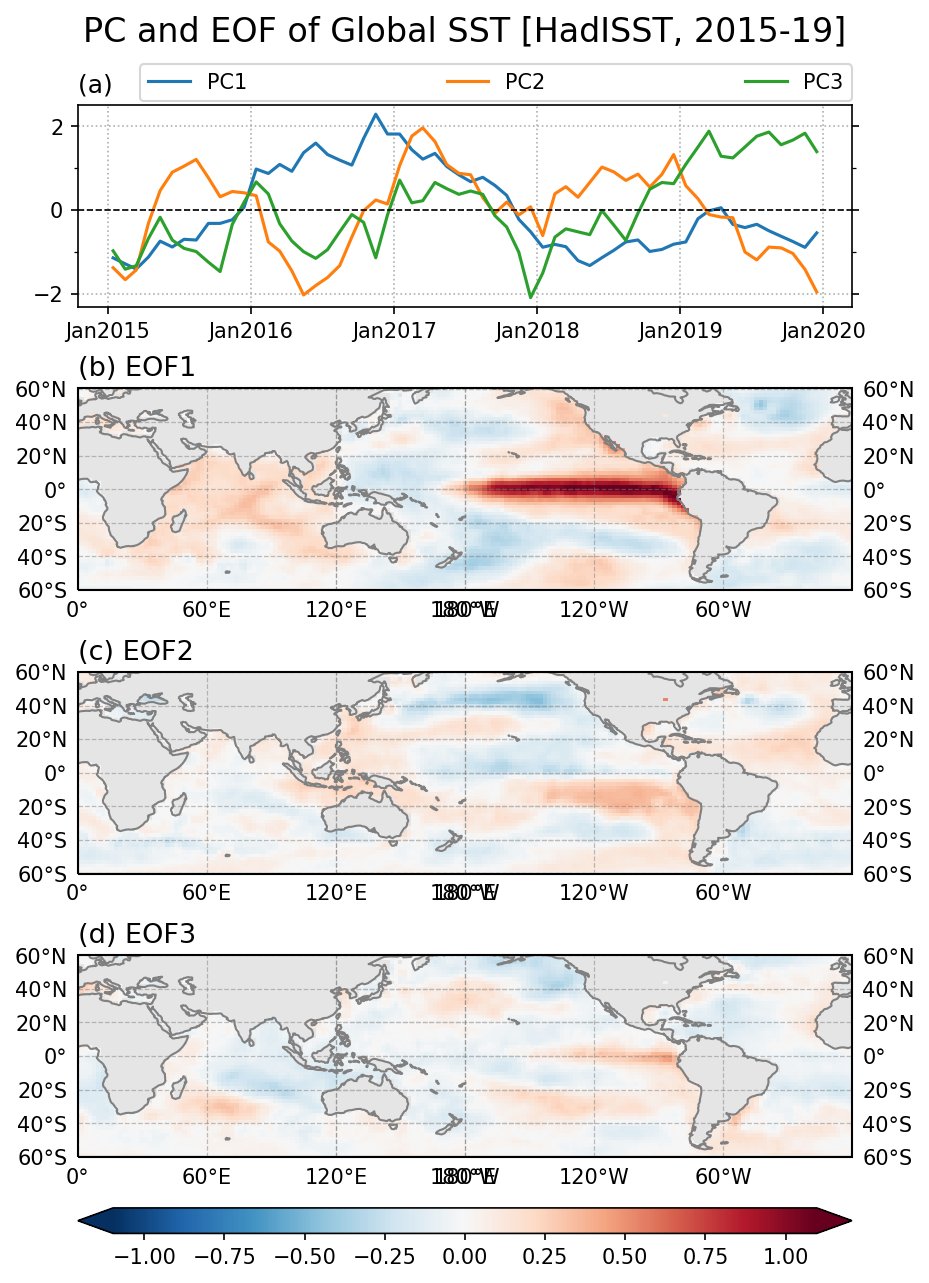
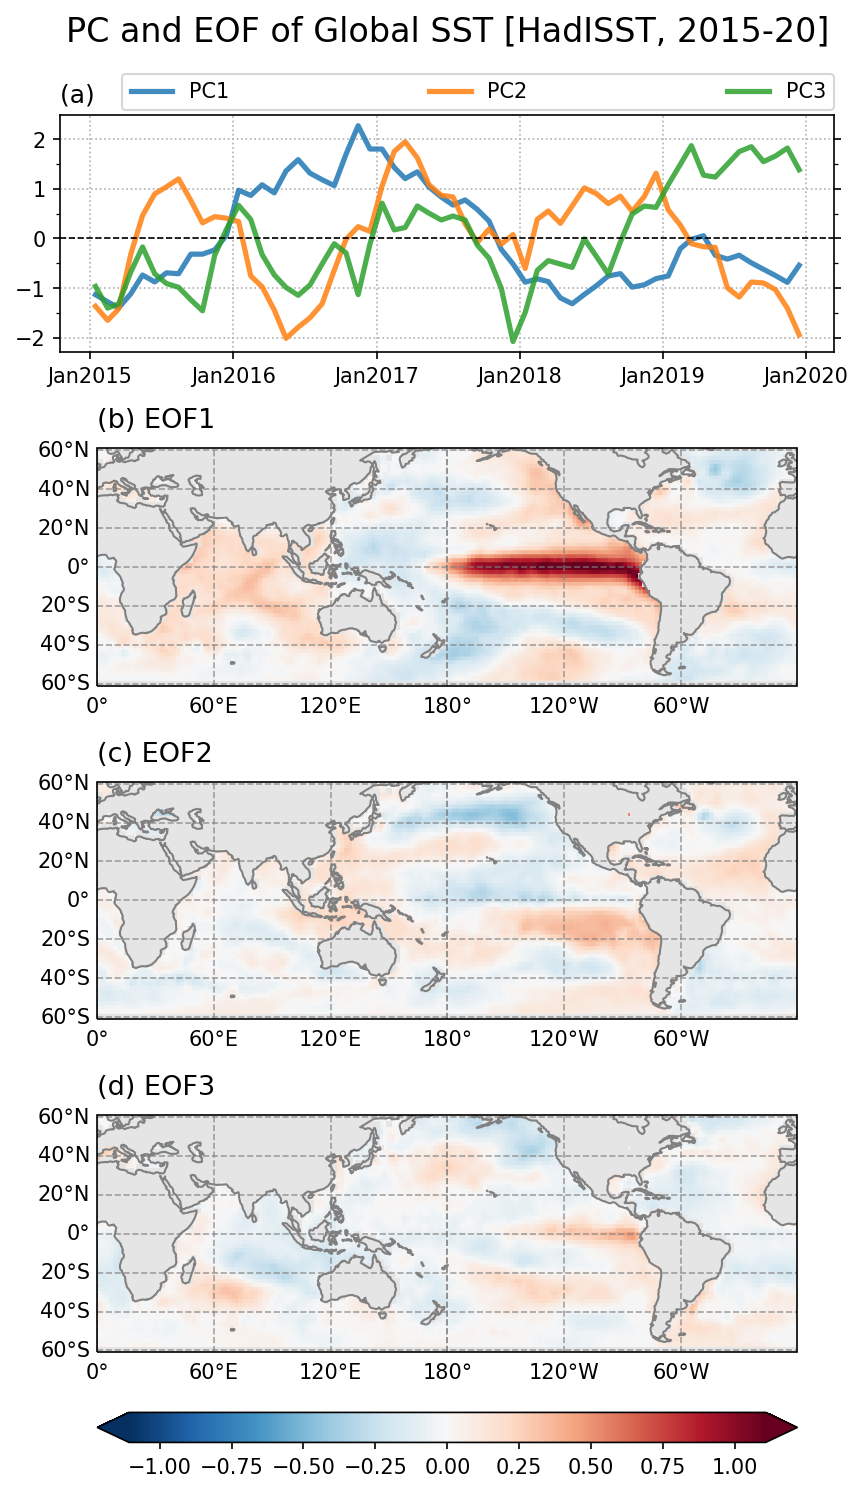
2021.0715

Changed region(s): [[0.0, 0.0, 0.9942, 0.9977]]

diff --git a/V.Various_Analysis_Methods/V09.PCanalysis_withSVD_onSST_py3.py b/V.Various_Analysis_Methods/V09.PCanalysis_withSVD_onSST_py3.py
@@ -23,6 +23,9 @@ Referece: Rayner, N. A.; Parker, D. E.; Horton, E. B.; Folland, C. K.; Alexander
  J. Geophys. Res.Vol. 108, No. D14, 4407, doi:10.1029/2002JD002670 
 
 Daeho Jin
+
+---
+https://docs.scipy.org/doc/scipy/reference/generated/scipy.linalg.svd.html
 """
 
 import sys
@@ -34,7 +37,7 @@ import V00_Functions as vf
 
 def main():
     ### Years to read data
-    yrs= [2015,2019]  # Starting year and ending year
+    yrs= [2015,2020]  # Starting year and ending year
 
     ### Get SST anomaly
     area_range= [-180,180,-60,60]  # [lon_range, lat_range]
@@ -51,24 +54,30 @@ def main():
     ### Degrading data resolution (for convenience)
     scaler=2
     nlat2, nlon2= nlat//scaler, nlon//scaler
-    sstano= sstano.reshape([-1,nlat2,scaler,nlon2,scaler]).swapaxes(2,3).\
-            reshape([-1,nlat2,nlon2,scaler**2]).mean(axis=-1)
+    sstano= sstano.reshape([-1,nlat2,scaler,nlon2,scaler]).mean(axis=(2,4))
 
-    ### Find location of missing values (and non-missing values, too)
-    ms_idx= np.isnan(sstano[0,:,:])  # missing if more than half is missing
+    ### Find location of missing values
+    ms_idx= np.isnan(sstano.mean(axis=0))  # one missing becomes missing
     print("Missing ratio= {:.2f}%".format(ms_idx.sum()/ms_idx.reshape(-1).shape[0]*100))
 
     ### Get PCs and Eigenvectors
-    maxnum=6
+    maxnum=10
     pc, evec, eval= PC_analysis(sstano[:,~ms_idx],maxnum=maxnum)
 
+    '''### Check if it works
+    n1= sstano[:,~ms_idx][:,3600]
+    n2= np.dot(pc,evec)[:,3600]
+    plt.plot(n1); plt.plot(n2)
+    plt.show() ; sys.exit()'''
+
+    ### Restore to lat-lon format
     ev_map= np.full([maxnum,*ms_idx.shape],np.nan)
     ev_map[:,~ms_idx]= evec
     img_bound= [lon0-dlon/2,lon0+dlon*(nlon+0.5),lat0-dlat/2,lat0+dlat*(nlat+0.5)]  # Exact range of data, necessary for imshow()
     ##-- Above bound is based on previous resolution, but it's ok since no change on area_boundary
 
     ### Prepare for plotting
-    suptit= 'PC and EOF of Global SST [HadISST, 2015-19]'
+    suptit= 'PC and EOF of Global SST [HadISST, 2015-20]'
     tgt_nums= [1,2,3]
     mon_list= vf.get_monthly_dates(date(yrs[0],1,1),date(yrs[1],12,31),day=15,include_date2=True)
 
@@ -100,11 +109,11 @@ def PC_analysis(arr2d, maxnum=10):
     nt,nn= arr2d.shape
 
     ### Perform SVD
-    pc, s, evec = svd(arr2d)
-    print(evec.shape, s.shape, pc.shape)
+    pc, s, evec = svd(arr2d,full_matrices=False)
+    print(pc.shape, s.shape, evec.shape)
 
     ### Eigen values
-    eval= s**2/nt
+    eval= s**2/(nt-1)
     trace= np.sum(eval)
     print("\nTrace Sum= {:.3f}".format(trace))
 
@@ -120,7 +129,7 @@ def PC_analysis(arr2d, maxnum=10):
     evec[flip_idx,:]*=-1  # Set bigger value becomes positive
 
     ### Normalizing PC
-    pc= pc[:,:maxnum]*np.sqrt(nt)
+    pc= pc[:,:maxnum]*np.sqrt(nt-1)
     pc[:,flip_idx]*=-1  # Same flipping as eigenvectors
 
     return pc, evec, eval
@@ -141,7 +150,7 @@ def plot_map(pdata):
 
     ###--- Create a figure
     fig=plt.figure()
-    fig.set_size_inches(6,8.5)  ## (xsize,ysize)
+    fig.set_size_inches(6,10)  ## (xsize,ysize)
 
     ###--- Suptitle
     fig.suptitle(pdata['suptit'],fontsize=16,y=0.97,va='bottom',stretch='semi-condensed')
@@ -158,8 +167,8 @@ def plot_map(pdata):
     ax1= fig.add_axes([ix,iy-ly,lx,ly])
     colors= plt.cm.tab10(np.linspace(0.05,0.95,10))
     for i,k in enumerate(pdata['tgt_nums']):
-        ax1.plot_date(pdata['mon_list'],pdata['pc'][:,k],c=colors[i],marker='',
-                lw=1.5,ls='-',label='PC{}'.format(k))
+        ax1.plot_date(pdata['mon_list'],pdata['pc'][:,k],fmt='-',c=colors[i],
+                lw=2.5,alpha=0.85,label='PC{}'.format(k))
     iy=iy-ly-gapy
     subtit= '(a) '
     ax1.set_title(subtit,fontsize=12,ha='left',x=0.0)
@@ -178,7 +187,7 @@ def plot_map(pdata):
     proj = ccrs.PlateCarree(central_longitude=center)
     data_crs= ccrs.PlateCarree()
 
-    map_extent= [0.,359.9,-60.1,60.1]  # Range to be shown
+    map_extent= [0.,359.9,-61,61]  # Range to be shown
     img_range= pdata['img_bound']
 
     val_max= max(np.nanmin(pdata['ev_map'])*-1,np.nanmax(pdata['ev_map']))
@@ -186,7 +195,7 @@ def plot_map(pdata):
     abc='abcdefgh'
 
     ###--- Color map
-    cm = plt.cm.get_cmap('RdBu_r')
+    cm = plt.cm.get_cmap('RdBu_r').copy()
     cm.set_bad('0.9')  # For the gridcell of NaN
 
     props= dict(vmin=val_min, vmax=val_max, origin='lower',
@@ -198,21 +207,18 @@ def plot_map(pdata):
         map1= ax2.imshow(data,**props)
 
         subtit= '({}) EOF{}'.format(abc[i+1],k)
-        vf.map_common(ax2,subtit,data_crs,xloc=60,yloc=20,gl_lab_locator=[False,True,True,True])
+        vf.map_common(ax2,subtit,data_crs,xloc=60,yloc=20,gl_lab_locator=[True,True,False,True])
 
         iy=iy-ly-gapy
-    vf.draw_colorbar(fig,ax2,map1,type='horizontal',size='panel',gap=0.06,extend='both')
+    vf.draw_colorbar(fig,ax2,map1,type='horizontal',size='panel',gap=0.06,extend='both',width=0.02)
 
     ##-- Seeing or Saving Pic --##
-    plt.show()
-
-    #- If want to save to file
     outfnm = pdata['out_fnm']
     print(outfnm)
     #fig.savefig(outfnm,dpi=100)   # dpi: pixels per inch
-    #fig.savefig(outfnm,dpi=150,bbox_inches='tight')   # dpi: pixels per inch
-
+    fig.savefig(outfnm,dpi=150,bbox_inches='tight')   # dpi: pixels per inch
     # Defalut: facecolor='w', edgecolor='w', transparent=False
+    plt.show()
     return
 
 if __name__ == "__main__":

diff --git a/V.Various_Analysis_Methods/V10.PowerSpectrum_MJOindex_py3.py b/V.Various_Analysis_Methods/V10.PowerSpectrum_MJOindex_py3.py
@@ -8,6 +8,9 @@ Referece: Wheeler, M. C., and H. H. Hendon, 2004: An all-season real-time multiv
 an index for monitoring and prediction. Mon. Wea. Rev., 132, 1917-1932. doi:10.1175/1520-0493(2004)132<1917:AARMMI>2.0.CO;2
 
 Daeho Jin
+
+---
+https://docs.scipy.org/doc/scipy/reference/generated/scipy.signal.welch.html
 """
 
 import sys
@@ -19,7 +22,7 @@ import V00_Functions as vf
 
 def main():
     ### Get RMM index
-    tgt_dates=(date(2015,1,1),date(2019,12,31))  # Recent 5 years
+    tgt_dates=(date(2010,1,1),date(2020,12,31))  # Recent 5 years
     time_info, pcs, phs, strs, miss_idx= vf.read_rmm_text(tgt_dates)
 
     ### Check missing
@@ -30,7 +33,7 @@ def main():
         print("No missings")
 
     ### Data collected
-    suptit= "Power Spectral Density of MJO Index [2010-19]"
+    suptit= "Power Spectral Density of MJO Index [2010-20]"
     data= [pcs[:,0], pcs[:,1], strs]
     var_names= ['RMM1','RMM2','Amp']
 
@@ -83,15 +86,12 @@ def plot_PS(pdata):
     ax1.xaxis.set_minor_locator(NullLocator())
 
     ##-- Seeing or Saving Pic --##
-    plt.show()
-
-    #- If want to save to file
     outfnm = pdata['out_fnm']
     print(outfnm)
     #fig.savefig(outfnm,dpi=100)   # dpi: pixels per inch
-    #fig.savefig(outfnm,dpi=150,bbox_inches='tight')   # dpi: pixels per inch
-
+    fig.savefig(outfnm,dpi=150,bbox_inches='tight')   # dpi: pixels per inch
     # Defalut: facecolor='w', edgecolor='w', transparent=False
+    plt.show()
     return
 
 

diff --git a/V.Various_Analysis_Methods/V00_Functions.py b/V.Various_Analysis_Methods/V00_Functions.py
@@ -89,7 +89,7 @@ def read_sst_from_HadISST(yrs=[2015,2020],include_ice=False):
     mon_per_yr= 12
     nt= (yrs0[1]-yrs0[0]+1)*mon_per_yr
 
-    infn= indir+"HadISST1.sample.{}-{}.{}x{}x{}.f32dat".format(*yrs,nt,nlat,nlon)
+    infn= indir+"HadISST1.sample.{}-{}.{}x{}x{}.f32dat".format(*yrs0,nt,nlat,nlon)
     sst= bin_file_read2mtx(infn)  # 'dtype' option is omitted because 'f32' is basic dtype
     sst= sst.reshape([nt,nlat,nlon]).astype(float)  # Improve precision of calculation
 

diff --git a/V.Various_Analysis_Methods/V07.t-test_Ex_py3.py b/V.Various_Analysis_Methods/V07.t-test_Ex_py3.py
@@ -16,6 +16,9 @@ Referece: Rayner, N. A.; Parker, D. E.; Horton, E. B.; Folland, C. K.; Alexander
  J. Geophys. Res.Vol. 108, No. D14, 4407, doi:10.1029/2002JD002670 
 
 Daeho Jin
+
+---
+https://docs.scipy.org/doc/scipy/reference/generated/scipy.stats.ttest_ind_from_stats.html
 """
 
 import sys

diff --git a/V.Various_Analysis_Methods/V08.t-test_Ex2_py3.py b/V.Various_Analysis_Methods/V08.t-test_Ex2_py3.py
@@ -18,6 +18,9 @@ Referece: Rayner, N. A.; Parker, D. E.; Horton, E. B.; Folland, C. K.; Alexander
  J. Geophys. Res.Vol. 108, No. D14, 4407, doi:10.1029/2002JD002670 
 
 Daeho Jin
+
+---
+https://docs.scipy.org/doc/scipy/reference/generated/scipy.stats.ttest_ind_from_stats.html
 """
 
 import sys
